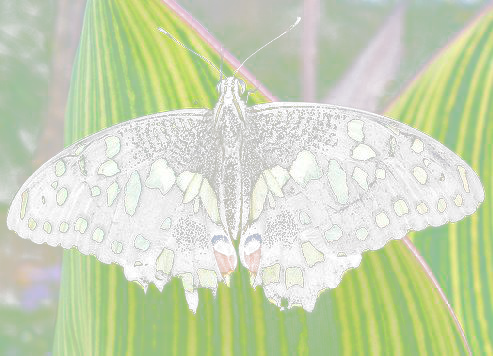
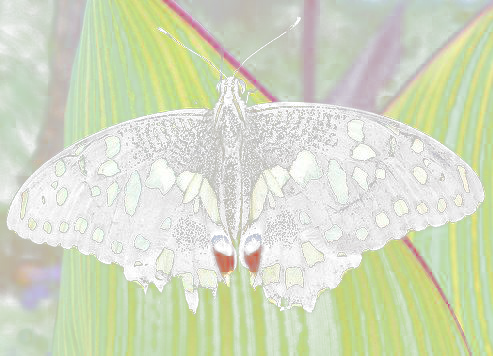
red transparent

diff --git a/ch02/02_03 Begin/02_05.py b/ch02/02_03 Begin/02_05.py
@@ -7,6 +7,6 @@ b=color[:,:,0]
 g=color[:,:,1]
 r=color[:,:,2]
 
-rgba = cv2.merge((b,g,r,g))
+rgba = cv2.merge((b,g,r,r))
 
 cv2.imwrite("rgba.png",rgba)
